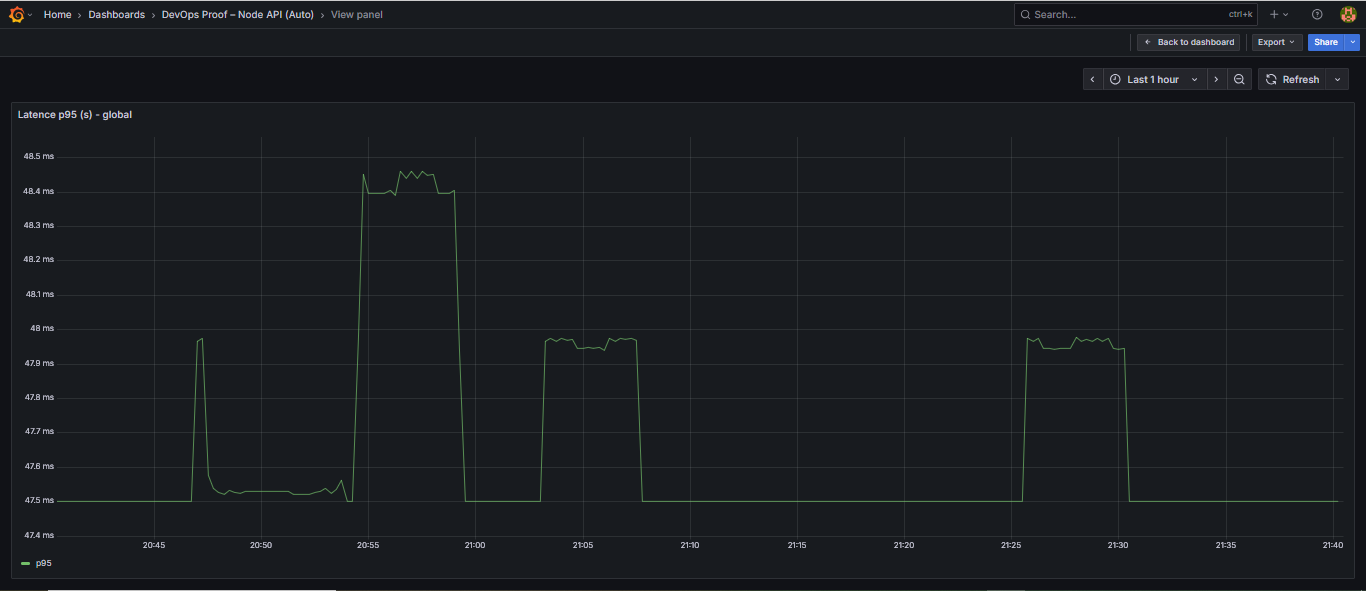
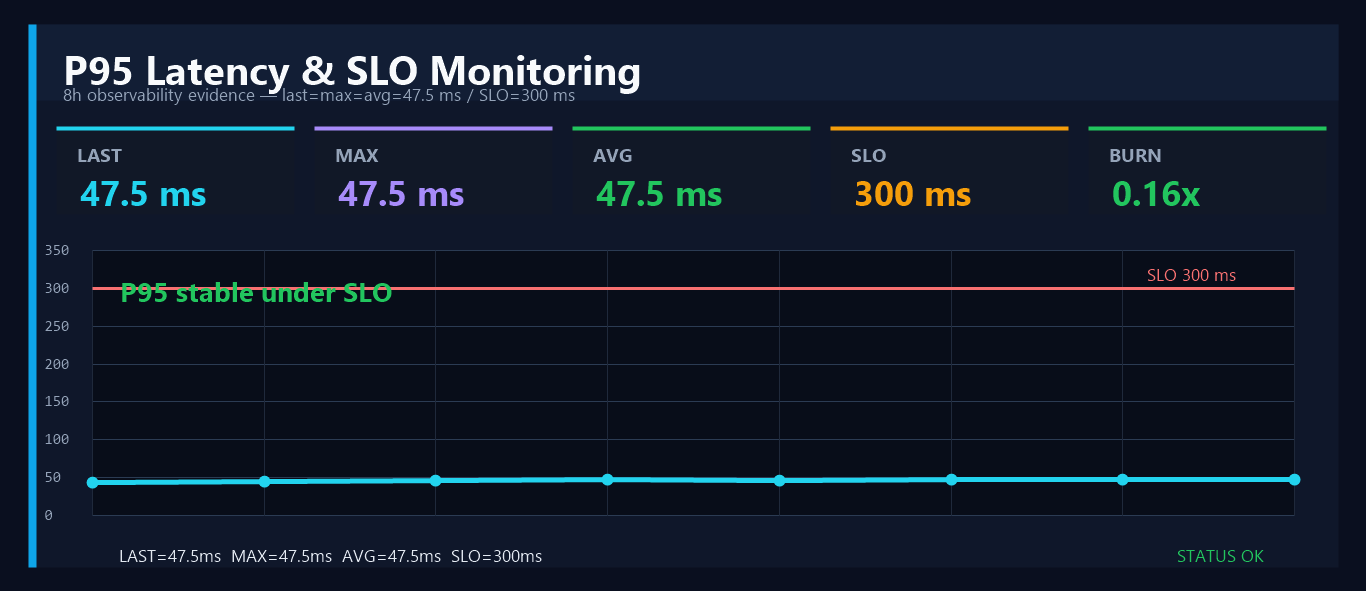
fix(evidence): replace no-data p95 latency panel with valued artifact (#6)
* chore(evidence): add curated p95 panel source

* fix(evidence): restore p95 latency values

* docs(evidence): expose p95 slo values in gallery

* ci(evidence): render curated p95 latency panel

* fix(evidence): replace p95 no-data panel with certified values

diff --git a/docs/presentation/evidence-gallery.md b/docs/presentation/evidence-gallery.md
@@ -7,7 +7,7 @@ Cette page donne une lecture visuelle rapide du proof pack.
 | Signal | Preuve |
 | --- | --- |
 | RPS | ![RPS](../../audit/demo_audit/images/panel_01.png) |
-| Latency / p95 | ![p95](../../audit/demo_audit/images/panel_02.png) |
+| Latency / p95 / SLO — 47.5 ms / 300 ms | ![p95 SLO 47.5ms](../../audit/demo_audit/images/panel_02.png) |
 | 5xx | ![5xx](../../audit/demo_audit/images/panel_03.png) |
 | CPU | ![CPU](../../audit/demo_audit/images/panel_04.png) |
 | Memory | ![Memory](../../audit/demo_audit/images/panel_05.png) |
@@ -25,3 +25,7 @@ Cette page donne une lecture visuelle rapide du proof pack.
 - Recruteur : lire `docs/presentation/recruiter-one-pager.md`.
 - Lead DevOps/SRE : lire `docs/presentation/staff-review-guide.md`.
 - Reviewer technique : lire `docs/proofs/observability-evidence.md`.
+
+## P95 data contract
+
+Le panneau p95 doit afficher les valeurs certifiées du rapport : `last=max=avg=0.0475s`, soit `47.5 ms`, avec un seuil SLO documenté à `0.3000s`, soit `300 ms`.
